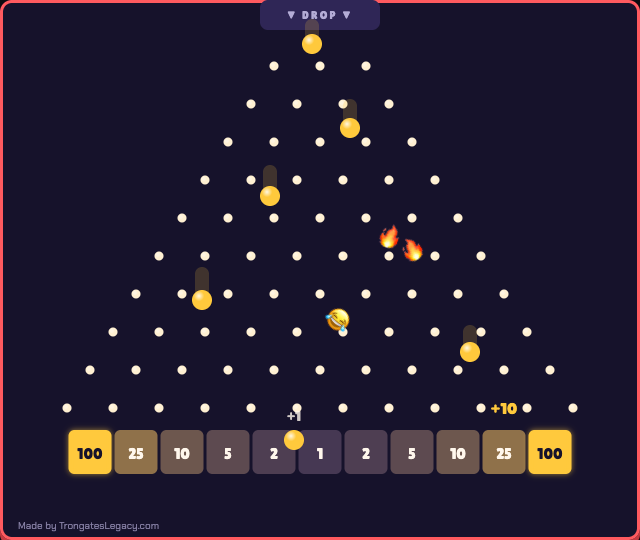
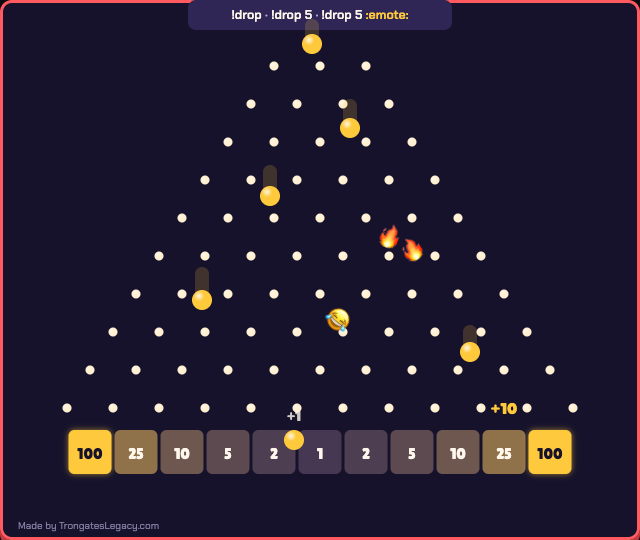
Drop game plan: the leaderboard is compact (just the list: top 5 by default, 3-10; strip 720x72); the commands move onto the board's drop chute (can be turned off); no biggest-drop line; mockups re-shot

Changed region(s): [[0.2812, 0.0, 0.7188, 0.0593]]

diff --git a/docs/plans/drop/mockup.html b/docs/plans/drop/mockup.html
@@ -91,6 +91,10 @@ function slotFill(v, max) {
 }
 function slotInk(v, max) { return v === max || v / max > .3 ? 'var(--accent-ink)' : 'var(--text)'; }
 
+// the drop chute at the top of every board, carrying the commands (plan.md, "Chat commands")
+const chute = (cx) => `<rect x="${cx - 132}" y="0" width="264" height="30" rx="8" style="fill:var(--slot)"/>` +
+  `<text x="${cx}" y="15" font-size="12.5" text-anchor="middle" dominant-baseline="central" style="font-family:var(--font);font-weight:700;fill:var(--text)">` +
+  `!drop <tspan style="fill:var(--muted)">·</tspan> !drop 5 <tspan style="fill:var(--muted)">·</tspan> !drop 5 <tspan style="fill:var(--accent)">:emote:</tspan></text>`;
 function svg(w, h, parts) { return `<svg width="${w}" height="${h}" viewBox="0 0 ${w} ${h}" xmlns="${NS}">
   <defs>
     <radialGradient id="shine" cx=".35" cy=".3" r=".75"><stop offset="0" stop-color="#fff" stop-opacity=".85"/><stop offset=".35" stop-color="#fff" stop-opacity="0"/></radialGradient>
@@ -121,7 +125,7 @@ function classic(o = {}) {
   const W = o.w || 640, cx = W / 2, rows = 10, gap = 46, dy = 38, top = 66, vals = [100, 25, 10, 5, 2, 1, 2, 5, 10, 25, 100];
   const p = [];
   // drop chute
-  p.push(`<rect x="${cx - 60}" y="0" width="120" height="30" rx="8" style="fill:var(--slot)"/>`, text(cx, 15, '▼  DROP  ▼', 11, 'fill:var(--muted);letter-spacing:.2em'));
+  p.push(chute(cx));
   for (let r = 0; r < rows; r++) { const n = r + 3; for (let i = 0; i < n; i++) p.push(peg(cx + (i - (n - 1) / 2) * gap, top + r * dy)); }
   const bw = (rows + 1) * gap, sy = top + (rows - 1) * dy + 22;
   p.push(slots(cx - bw / 2, sy, bw, 44, vals));
@@ -150,7 +154,7 @@ function pachinko() {
   const bumper = (x, y, r) => `<circle cx="${x}" cy="${y}" r="${r + 5}" style="fill:var(--accent)" opacity=".25" filter="url(#glow)"/><circle cx="${x}" cy="${y}" r="${r}" style="fill:var(--panel);stroke:var(--accent)" stroke-width="3"/>`;
   p.push(bumper(270, 300, 16), bumper(370, 300, 16), bumper(320, 262, 12));
   p.push(text(320, 340, '★ JACKPOT ★', 11, 'fill:var(--gold);letter-spacing:.15em'));
-  p.push(slots(40, 470, 560, 46, vals, 5));
+  p.push(slots(40, 470, 560, 46, vals, 5), chute(320));
   p.push(ball(120, 90, 8, 20), ball(212, 140, 8), ball(468, 228, 8, 16), ball(330, 236, 8), emote(400, 110, '🐸', 11, 15), emote(540, 380, '🐸', 11, -20), ball(300, 420, 8, 22), ball(88, 440, 8, 14));
   return svg(W, 540, p);
 }
@@ -158,9 +162,10 @@ function pachinko() {
 // Pin tower: tall and narrow (the side of the screen), a staggered wall of pins
 function tower() {
   const W = 360, H = 640, p = [], vals = [50, 10, 3, 1, 3, 10, 50];
-  for (let r = 0; r < 14; r++) { const n = r % 2 ? 7 : 8; for (let i = 0; i < n; i++) p.push(peg(34 + i * 41 + (r % 2) * 20.5, 150 + r * 30, 4)); }
+  for (let r = 0; r < 17; r++) { const n = r % 2 ? 7 : 8; for (let i = 0; i < n; i++) p.push(peg(34 + i * 41 + (r % 2) * 20.5, 62 + r * 30, 4)); }
+  p.push(chute(180));
   p.push(slots(12, 574, 336, 50, vals, 4));
-  p.push(ball(180, 128, 10, 16), ball(98, 212, 10, 22), emote(250, 300, '💜', 12, 10), ball(170, 380, 10, 20), ball(300, 470, 10, 18), emote(116, 520, '💜', 12, -15));
+  p.push(ball(180, 48, 10, 16), ball(98, 212, 10, 22), emote(250, 300, '💜', 12, 10), ball(170, 380, 10, 20), ball(300, 470, 10, 18), emote(116, 520, '💜', 12, -15));
   p.push(text(300, 556, '+10', 15, 'fill:var(--accent)'));
   return svg(W, H, p);
 }
@@ -169,11 +174,9 @@ const PLAYERS = [['lulu_gang_4life', 'kk', 1284], ['pixelpriya', 'tw', 1122], ['
 const rows = (n, list = PLAYERS) => list.slice(0, n).map(([u, pl, s], i) => `<div class="row"><b>${i + 1}</b><span class="dot ${pl}"></span><span class="n">${u}</span><span class="p">${s.toLocaleString()}</span></div>`).join('');
 const ALLTIME = [...PLAYERS].reverse().map(([u, p, s], i) => [u, p, s * (9 - i)]).sort((a, b) => b[2] - a[2]);
 // the leaderboard source: its own OBS browser source, reading the board's scores (plan.md, "The leaderboard source")
-const panel = () => `<div class="lb src"><h2>Leaderboard</h2><div class="tabs"><span class="on">This stream</span><span>All time</span></div>${rows(8)}
-  <div class="best">Biggest drop this stream<br><strong>pixelpriya · 100</strong></div>
-  <div class="how"><code>!drop</code> <code>!drop 5</code> <code>!drop 5 :emote:</code></div></div>`;
+const panel = () => `<div class="lb src"><h2>Leaderboard</h2><div class="tabs"><span class="on">This stream</span><span>All time</span></div>${rows(5)}</div>`;
 const strip = () => `<div class="strip"><span class="st">This stream</span>${PLAYERS.slice(0, 3).map(([u, pl, s], i) =>
-  `<span class="chip"><i>${['🥇', '🥈', '🥉'][i]}</i><span class="dot ${pl}"></span>${u}<b>${s.toLocaleString()}</b></span>`).join('')}<span class="how"><code>!drop 5 :emote:</code></span></div>`;
+  `<span class="chip"><i>${['🥇', '🥈', '🥉'][i]}</i><span class="dot ${pl}"></span>${u}<b>${s.toLocaleString()}</b></span>`).join('')}</div>`;
 const credit = '<div class="credit">Made by TrongatesLegacy.com</div>';
 
 const frame = (theme, w, h, inner, accent, clear) => `<div class="w${clear ? ' clear' : ''}" data-theme="${theme}" style="width:${w}px;height:${h}px;${accent ? `--accent:${accent}` : ''}">${inner}</div>`;
@@ -186,14 +189,14 @@ const V = {
   tower: ['Board source: Pin tower · tall 360×640 · candy theme', () => frame('candy', 360, 640, tower())],
   jackpot: ['Board source: the top prize card · deep theme', () => frame('deep', 640, 540, classic({ balls: false }) + `<div class="dim"></div>` + confetti() +
     `<div class="card"><div class="k">JACKPOT!</div><div class="who"><span class="dot tw"></span>pixelpriya</div><div class="pts">+100</div><div class="sub">1 in 512 · the first today</div></div>`)],
-  panel: ['Leaderboard source: panel · 320×540 · chatagram theme', () => frame('chatagram', 320, 540, panel())],
-  strip: ['Leaderboard source: strip · 960×72 · neon theme', () => frame('neon', 960, 72, strip())],
+  panel: ['Leaderboard source: panel · 300×270 · chatagram theme', () => frame('chatagram', 300, 270, panel())],
+  strip: ['Leaderboard source: strip · 720×72 · neon theme', () => frame('neon', 720, 72, strip())],
   clear: ['Board source, transparent: no background, no frame, pegs and slots shadowed to read over any game · neon theme', () => `<div class="scene" style="width:640px;height:540px">${frame('neon', 640, 540, classic(), '', true)}</div>`],
   lbclear: ['Leaderboard source, transparent: panel and strip straight over the game · chatagram and neon themes', () => `<div class="scene" style="width:960px;height:540px">
-    <div style="position:absolute;left:0;top:0">${frame('chatagram', 320, 450, panel(), '', true)}</div>
-    <div style="position:absolute;left:0;bottom:0">${frame('neon', 960, 72, strip(), '', true)}</div></div>`],
+    <div style="position:absolute;left:0;top:0">${frame('chatagram', 300, 270, panel(), '', true)}</div>
+    <div style="position:absolute;left:0;bottom:0">${frame('neon', 720, 72, strip(), '', true)}</div></div>`],
   scene: ['How a streamer might place them: two sources over their game (1280×720)', () => `<div class="scene">
-    <div class="src-at" style="left:28px;top:28px;width:192px;height:324px"><div style="transform:scale(.6);transform-origin:0 0">${frame('royal', 320, 540, panel())}</div><span class="tag">leaderboard source</span></div>
+    <div class="src-at" style="left:28px;top:28px;width:180px;height:162px"><div style="transform:scale(.6);transform-origin:0 0">${frame('royal', 300, 270, panel())}</div><span class="tag">leaderboard source</span></div>
     <div class="src-at" style="right:28px;bottom:28px;width:384px;height:324px"><div style="transform:scale(.6);transform-origin:0 0">${frame('royal', 640, 540, classic())}</div><span class="tag">board source</span></div></div>`],
   accents: ['The same board, any theme and accent (640×540 each, shown at half size)', () => `<div class="mini">${[['neutral', ''], ['light', ''], ['cozy', ''], ['chatagram', '#2ee6a8'], ['neon', '#ff4155'], ['royal', '#ffd98a'], ['deep', '#45d6c8'], ['candy', '#ff7bd5']]
     .map(([t, a]) => `<div style="width:320px;height:270px;overflow:hidden"><div style="transform:scale(.5);transform-origin:0 0">${frame(t, 640, 540, classic({ w: 640 }), a)}</div></div>`).join('')}</div>`],

diff --git a/docs/plans/drop/plan.md b/docs/plans/drop/plan.md
@@ -65,6 +65,9 @@ its own.
 
 - **board** 640 × 540 (Classic and Pachinko) or **tall** 360 × 640 (Tower's natural shape, for the side of the screen;
   any board can use it). As in Chatagram, the board scales to fit if the OBS source is another size.
+- **The commands are on the board**, in the drop chute at the top: `!drop · !drop 5 · !drop 5 :emote:` (using the
+  streamer's own command names if they renamed them). This is where viewers look, and it keeps the leaderboard compact.
+  It can be turned off (Advanced → Show the commands).
 - **Background**: 0–100% (Chatagram's `bgo`, but going down to 0), default 95%. **Transparent** (0) also drops the
   theme's frame and gives pegs, slots, balls and the `+N` numbers a soft dark shadow so they read over any game (mockup:
   transparent). The big win card keeps its own panel and dims the board only as a soft glow behind the card, not the
@@ -73,8 +76,12 @@ its own.
 
 ### The leaderboard source
 
-- **panel** 320 × 540: tabs, top 8, "Biggest drop this stream", the commands (mockup: panel).
-- **strip** 960 × 72: This stream's top 3 in a row, for the top or bottom of the screen (mockup: strip).
+**Compact: only the list.** It has no "biggest drop" and no commands (the commands are on the board), so it takes as
+little of the screen as possible (the owner, 2026-09-29).
+
+- **panel** 300 × 270: the title, the This stream / All time tabs, the top 5 (mockup: panel). **How many** is a
+  setting (3–10), and the source's height follows it.
+- **strip** 720 × 72: This stream's top 3 in a row, for the top or bottom of the screen (mockup: strip).
 - Its own theme, accent, background and credit, so it can match the board or not.
 - **Background** 0–100%, default 95%, with **Transparent** (0) one click away, as on the board: no background, frame,
   panels or pill boxes, only the text and the active tab, with a text shadow so it reads over any game. The inactive tab
@@ -132,8 +139,7 @@ safe and means no lookups.
   the emote itself, turning as it rolls.
 - **No names on balls.** When a ball lands, its value rises from the slot (`+10`), and the points go to the person who
   dropped it.
-- **Leaderboards**: points only, per `platform:user`, as in Chatagram. They also count drops, for "Biggest drop this
-  stream".
+- **Leaderboards**: points only, per `platform:user`, as in Chatagram.
 - **Big win card** (mockup: jackpot, on the board source): the board dims, "JACKPOT!" springs in with the name, their platform and the points,
   a line such as "1 in 512 · the first today", and confetti. It shows for 4 s. Several at once queue. Balls keep falling
   behind the card.
@@ -161,7 +167,7 @@ replay any drop exactly.
 
 Main: Twitch, Kick, board, size (board / tall), rows (Classic), theme, accent, background (Transparent is one click).
 The leaderboard source's own settings sit in a separate part: its layout (panel / strip), which list, theme, accent,
-background. Advanced: slot values, big win card, ball colour,
+background. Advanced: slot values, big win card, show the commands, ball colour,
 most balls per command, cooldown, most balls on screen, ball size, gravity (slow / normal / fast), commands and who can
 use them, ignored users, `!drop top` on or off, show All time, the credit.
 
